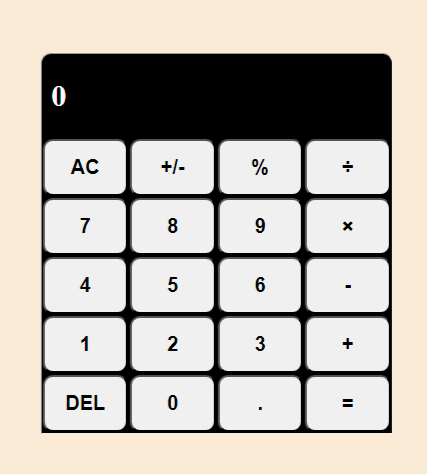
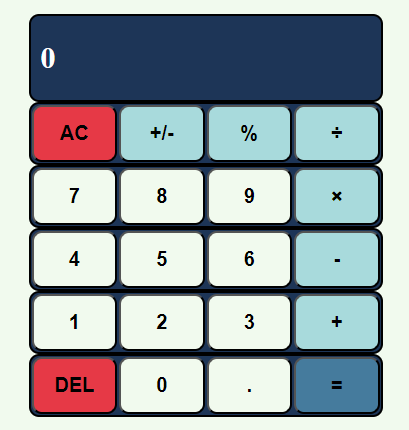
simple modifications

diff --git a/index.html b/index.html
@@ -22,7 +22,7 @@
     <nav id="mainNavbar" class="navbar navbar-dark navbar-expand-md py-2 sticky-top ">
         <a href="#" class="navbar-brand">
             <div class=" d-inline-block d-lg-none">
-                <img src="/mohammed-website/pic/sticker.webp" width="30" height="30" class="d-inline-block align-top"
+                <img src="/pic/sticker.webp" width="30" height="30" class="d-inline-block align-top"
                     alt="" loading="lazy">
             </div>
             Mohammed
@@ -87,7 +87,7 @@
 
             <div class=" col-sm-8 col-lg-4">
                 <div class=" cir box shadow  mt-3 d-none d-lg-inline-block">
-                <img class="" src="pic/sticker.webp" alt="">
+                <img class="" src="/pic/sticker.webp" alt="">
             </div>
             </div>
         </div>
@@ -174,7 +174,7 @@
             <div class="col col-lg-6 col-xl-4 mb-3 ">
                 <div class="card boxx box shadow " style="width: 21rem;">
                     <a href="https://drive.google.com/file/d/1r86kwUsV3W7gBoMWVmDTsUI_hACOGSh5/view?usp=sharing"><img
-                            src="pic/c1.png" class="card-img-top" alt="..." id="imgg" class="img-fluid"></a>
+                            src="/pic/c1.png" class="card-img-top" alt="..." id="imgg" class="img-fluid"></a>
                     <div class="card-body text-center">
                         <h5 class="card-title text-center">Web Penetration Testing</h5>
                         <p class="card-text text-center ">Google Developer Student Club</p>
@@ -205,8 +205,8 @@
     <!-- project -->
     <div class="container-fluid ml-1 mt-5" id="project">
         <h1 class="">projects</h1>
-        <div class="row mt-4 align-items-center justify-content-start">
-            <div class="col-12  col-lg-6 col-xl-4 mb-3">
+        <div class="row mt-4  justify-content-start">
+            <div class="col-12 col-sm-6 col-xl-4  mb-3">
                 <div class="card mb-3 boxx box shadow w-auto " style="max-width: 540px;">
                     <div class="row no-gutters">
                       <div class="col-md-4 project">
@@ -222,23 +222,23 @@
                     </div>
                   </div>
             </div>
-            <div class="col-12  col-lg-6 col-xl-4 mb-3">
+            <div class="col-12 col-sm-6 col-xl-4  mb-3">
                 <div class="card mb-3 boxx box shadow w-auto " style="max-width: 540px;">
                     <div class="row no-gutters">
                       <div class="col-md-4 project">
-                        <img src="pic/score.png" alt="..." class="img-fluid round">
+                        <img src="/pic/score.png" alt="..." class="img-fluid round">
                       </div>
                       <div class="col-md-8">
                         <div class="card-body project">
-                          <h5 class="card-title text-center">score keeper</h5>
-                          <p class="card-text text-center mt-4">Ping Pong Score Keeper</p>
-                          <div class="text-center mt-5"><a href="ScoreKeeper/ScoreKeeper.html"><button type="button" class="btn btn-outline-primary m-0 ">preview</button></a></div>
+                          <h5 class="card-title text-center">score keeprer</h5>
+                          <p class="card-text text-center">Simple program that calculates the points for each contestant to detrmine the winner</p>
+                          <div class="text-center"><a href="ScoreKeeper/ScoreKeeper.html"><button type="button" class="btn btn-outline-primary m-0 ">preview</button></a></div>
                         </div>
                       </div>
                     </div>
                   </div>
             </div>
-            <div class="col-12  col-lg-6 col-xl-4 mb-3">
+            <div class="col-12 col-md-6 col-xl-4  mb-3">
                 <div class="card mb-3 boxx box shadow w-auto " style="max-width: 540px;">
                     <div class="row no-gutters">
                       <div class="col-md-4 project">
@@ -254,6 +254,8 @@
                     </div>
                   </div>
             </div>
+            </div>
+          
         </div>
     </div>
 

diff --git a/calculator/calculator.html b/calculator/calculator.html
@@ -4,7 +4,7 @@
 <head>
     <meta charset="UTF-8">
     <meta name="viewport" content="width=device-width, initial-scale=1.0">
-    <title>Document</title>
+    <title>Calculator</title>
     <link rel="stylesheet" href="calculator.css">
 </head>
 
@@ -15,34 +15,34 @@
             <h1> <span id="num1">0</span> <span id="op"></span> <span id="num2"></span> </h1>
         </div>
         <div class="row2">
-            <button id="clear">AC</button>
-            <button id="sign">+/-</button>
-            <button class="opp">%</button>
-            <button class="opp">÷</button>
+            <button id="clear" class="col4">AC</button>
+            <button id="sign" class="col2">+/-</button>
+            <button class="col2 opp">%</button>
+            <button class="col2 opp">÷</button>
         </div>
         <div class="row3">
-            <button class="num">7</button>
-            <button class="num">8</button>
-            <button class="num">9</button>
-            <button class="opp">×</button>
+            <button class="col1 num">7</button>
+            <button class="col1 num">8</button>
+            <button class="col1 num">9</button>
+            <button class="col2 opp">×</button>
         </div>
         <div class="row4">
-            <button class="num">4</button>
-            <button class="num">5</button>
-            <button class="num">6</button>
-            <button class="opp">-</button>
+            <button class="col1 num">4</button>
+            <button class="col1 num">5</button>
+            <button class="col1 num">6</button>
+            <button class="col2 opp">-</button>
         </div>
         <div class="row5">
-            <button class="num">1</button>
-            <button class="num">2</button>
-            <button class="num">3</button>
-            <button class="opp">+</button>
+            <button class="col1 num">1</button>
+            <button class="col1 num">2</button>
+            <button class="col1 num">3</button>
+            <button class="col2 opp">+</button>
         </div>
         <div class="row6">
-            <button id="dell">DEL</button>
-            <button class="num">0</button>
-            <button id="point">.</button>
-            <button id="eq">=</button>
+            <button id="dell" class="col4">DEL</button>
+            <button class="col1 num">0</button>
+            <button id="point" class="col1">.</button>
+            <button id="eq" class="col3">=</button>
         </div>
     </section>
 

diff --git a/ScoreKeeper/ScoreKeeper.css b/ScoreKeeper/ScoreKeeper.css
@@ -1,18 +1,25 @@
+html{
+    height: 100%;
+    width: 100%;
+}
+
 body{
-    background-color: #fdf0d5;
+    background-color: #caf0f8;
     /* margin: 0; */
     /* padding: 0; */
+    height: 100%;
     display: flex;
     justify-content: center;
     align-items: center;
-    height: 100%;
+    color: whitesmoke;
 }
 
 .con{
-    background-color: #669bbc;
+    background-color: #3a0ca3;
     /* width: 50%; */
     /* margin: auto; */
-    border: 2px solid
+    border: 2px solid black;
+    border-bottom: 1px solid black;
 }
 
 img{
@@ -25,7 +32,7 @@ h1{
     text-align: center;
     text-transform: uppercase;
     font-size: 25px;
-    border-bottom: 1px solid gray;
+    /* border-bottom: 0.5px solid gray; */
 }
 
 h2{
@@ -35,23 +42,24 @@ h2{
 #playto{
     border: 1px solid;
     border-radius: 30px;
-    padding: 6px;
+    padding: 5px;
     font-size: 15px;
     font-weight: bold;
     text-align: center;
+    color: black;
 }
 
 button{
     width: 100%;
     padding: 10px ;
     text-transform: uppercase;
-    border-bottom: none;
+    
     color: aliceblue;
 }
 
 button:disabled{
-    color: rgb(114, 114, 114);
-    border: 1px solid black;
+    color: rgba(161, 161, 161, 0.701);
+    /* border: 1px solid black; */
 }
 
 .btn{
@@ -67,12 +75,12 @@ button:disabled{
 }
 
 #btn2{
-background-color: #1d3557;
+background-color: #b5179e;
 
 }
 
 #btn1{
-background-color: #3a5a40;
+background-color: #4361ee;
 
 }
 
@@ -86,9 +94,13 @@ label{
 
 
 .win{
-    color: green;
+    color: #4cc9f0;
 }
 
 .lose{
-    color: red;
+    color: #f72585;
+}
+
+p{
+    margin-left: 5px;
 }

diff --git a/alqassim/alqassim.html b/alqassim/alqassim.html
@@ -59,7 +59,7 @@
                 </div>
             </div>
             <div class="col-lg-6 p-0">
-                <img class="img-fluid w-100 " src="/mohammed-website/pic/map2.jpg" alt="">
+                <img class="img-fluid w-100 " src="/pic/map2.jpg" alt="">
             </div>
         </div>
 
@@ -68,7 +68,7 @@
         <!-- first row -->
         <div class="row align-items-center cont" id="uni">
             <div class="col-md-6 order-2 order-md-1 p-0">
-                <img class="img-fluid w-100" src="/mohammed-website/pic/on.jpg" alt="">
+                <img class="img-fluid w-100" src="/pic/on.jpg" alt="">
             </div>
             <div class="col-md-6 text-center order-1 order-md-2">
                 <div class="row justify-content-center" >
@@ -98,13 +98,13 @@
                 </div>
             </div>
             <div class="col-md-6 order-2 p-0">
-                <img class="img-fluid w-100" src="/mohammed-website/pic/bro.jpg" alt="">
+                <img class="img-fluid w-100" src="/pic/bro.jpg" alt="">
             </div>
         </div>
         <!-- third row -->
         <div class="row align-items-center cont" id="ara">
             <div class="col-md-6 order-2 order-md-1 p-0">
-                <img class="img-fluid w-100" src="/mohammed-website/pic/Arrass.jpg" alt="">
+                <img class="img-fluid w-100" src="/pic/Arrass.jpg" alt="">
             </div>
             <div class="col-md-6 text-center order-1 order-md-2">
                 <div class="row justify-content-center">

diff --git a/ScoreKeeper/ScoreKeeper.html b/ScoreKeeper/ScoreKeeper.html
@@ -4,14 +4,14 @@
 <head>
     <meta charset="UTF-8">
     <meta name="viewport" content="width=device-width, initial-scale=1.0">
-    <title>ex5</title>
+    <title>Score Keeper</title>
     <link rel="stylesheet" href="ScoreKeeper.css">
 </head>
 
 <body>
     <div class="con">
-        <img src="/mohammed-website/pic/pong.webp" alt="">
-        <h1>Ping Pong Score Keeper</h1>
+        <img src="/pic/vs.jpg" alt="">
+        <h1>Score Keeper</h1>
         <h2 id="w"> </h2>
         <h2><span id="pl1">0</span> to <span id="pl2">0</span></h2>
         <p>Use the buttons below to keep score</p>
@@ -27,8 +27,8 @@
         </select>
 
         <div class="btn">
-            <button id="btn1">+1 player one</button>
-            <button id="btn2">+1 player two</button>
+            <button id="btn1">+1 <br> player one</button>
+            <button id="btn2">+1 <br> player two</button>
             <button id="reset">reset</button>
         </div>
     </div>

diff --git a/calculator/calculator.css b/calculator/calculator.css
@@ -5,18 +5,19 @@ html{
 
 
 body{
-    background-color: antiquewhite;
+    background-color: #f1faee;
     height: 100%; 
     display: flex;
     justify-content: center;
     align-items: center;
 }
 
-.cont{
-    background-color: black;
+.cont div{
+    background-color: #1d3557;
     width: 350px;
-    border: 1px inset ;
+    border: 2px solid black ;
     border-radius: 10px 10px 10px 10px ;
+
 }
 
 .cont button{
@@ -28,6 +29,7 @@ body{
    font-size: 20px;
    border-radius: 10px;
    color: black;
+   
    
 }
 
@@ -56,4 +58,20 @@ body{
 .row6{
     display: flex;
     
+}
+
+.col2{
+    background-color: #a8dadc;
+}
+
+.col1{
+    background-color: #f1faee;
+}
+
+.col3{
+    background-color: #457b9d;
+}
+
+.col4{
+    background-color: #e63946;
 }
